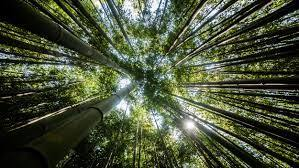
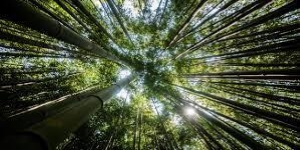
kepek meretezese kesz feladat

diff --git a/src/components/kepek/Kepek.css b/src/components/kepek/Kepek.css
@@ -7,7 +7,5 @@
 }
 
 .kepek img {
-  width: 150px;
-  height: 150px;
-  object-fit: cover;
+  width: 200px;
 }
